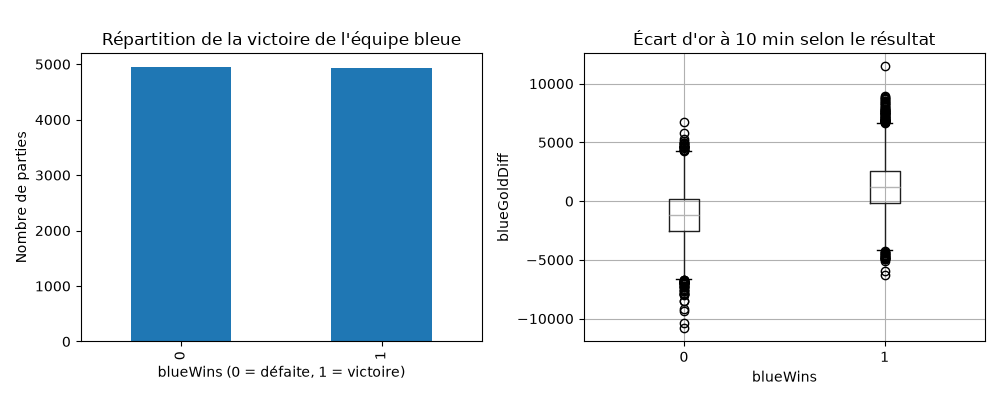
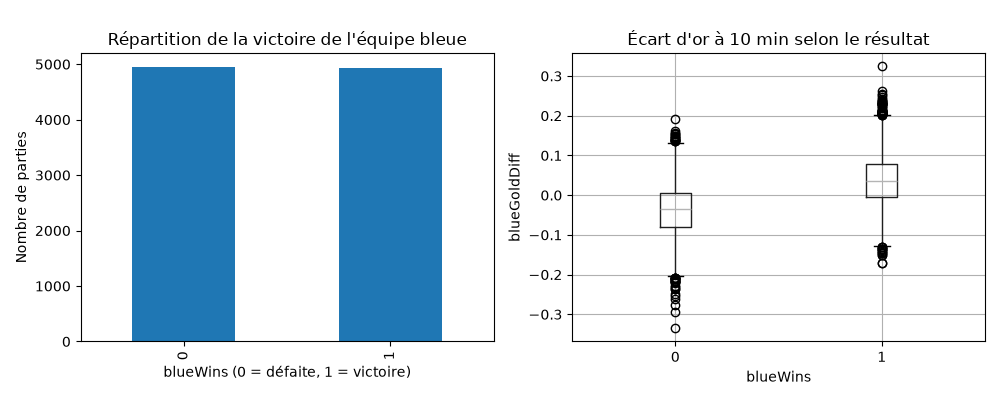
Modele entree (oui)

diff --git a/src/exploration.py b/src/exploration.py
@@ -58,7 +58,7 @@ print(redondances.to_string())
 
 ################# Nettoyage #############
 
-df = nettoyer_donnees(df)
+df = ajouter_ecarts_relatifs(nettoyer_donnees(df))
 
 #print(df)
 print(df.shape)  
@@ -80,7 +80,7 @@ axes[0].set_xlabel("blueWins (0 = défaite, 1 = victoire)")
 axes[0].set_ylabel("Nombre de parties")
 
 # Écart d'or selon le résultat
-df.boxplot(column="blueGoldDiff", by="blueWins", ax=axes[1])
+df.boxplot(column="ecartOrRelatif", by="blueWins", ax=axes[1])
 axes[1].set_title("Écart d'or à 10 min selon le résultat")
 axes[1].set_xlabel("blueWins")
 axes[1].set_ylabel("blueGoldDiff")

diff --git a/src/main.py b/src/main.py
@@ -21,12 +21,12 @@ print(f"Exactitude de la référence : {reference:.1%}")
 ##################################################
 
 
-modele = entrainer_modele(X_train, y_train)
+"""modele = entrainer_modele(X_train, y_train)
 exactitude = evaluer_modele(modele, X_test, y_test)
 
 print(f"Référence : {reference:.1%}")
 print(f"Modèle    : {exactitude:.1%}")
-print(calculer_matrice_confusion(modele, X_test, y_test))
+print(calculer_matrice_confusion(modele, X_test, y_test))"""
 
 ############################
 
